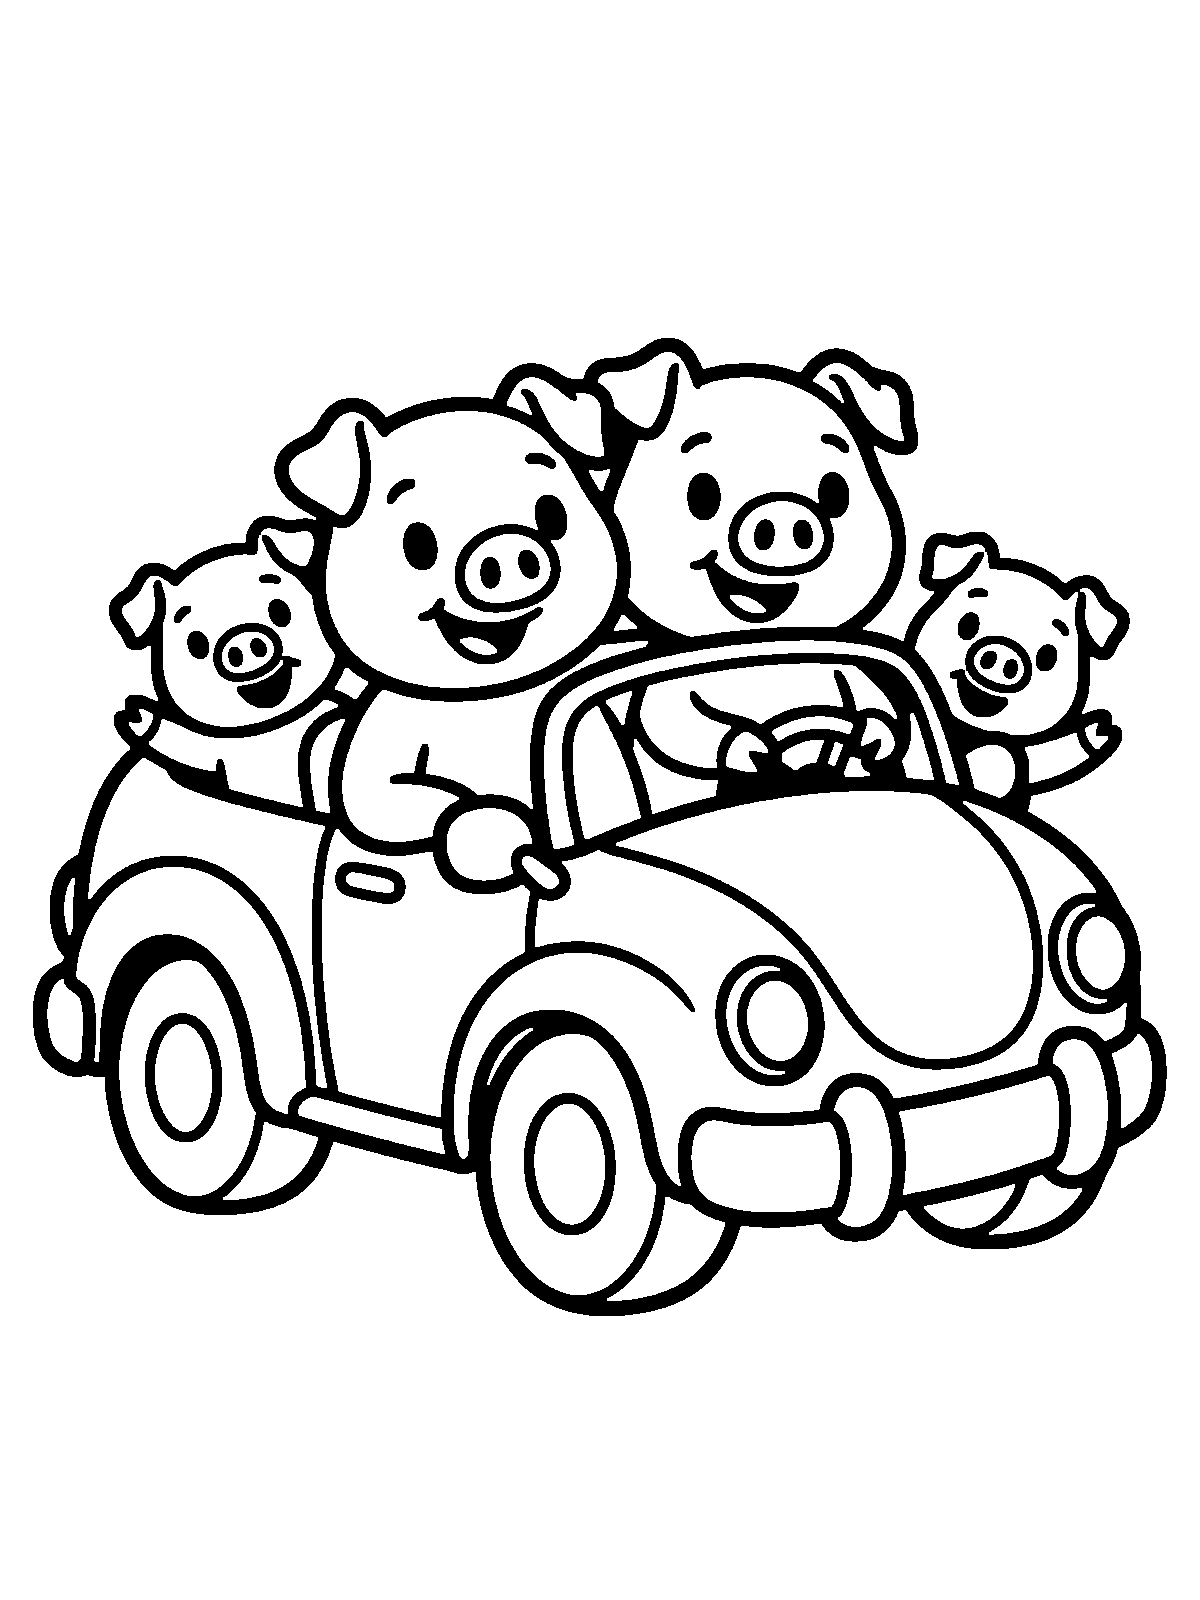
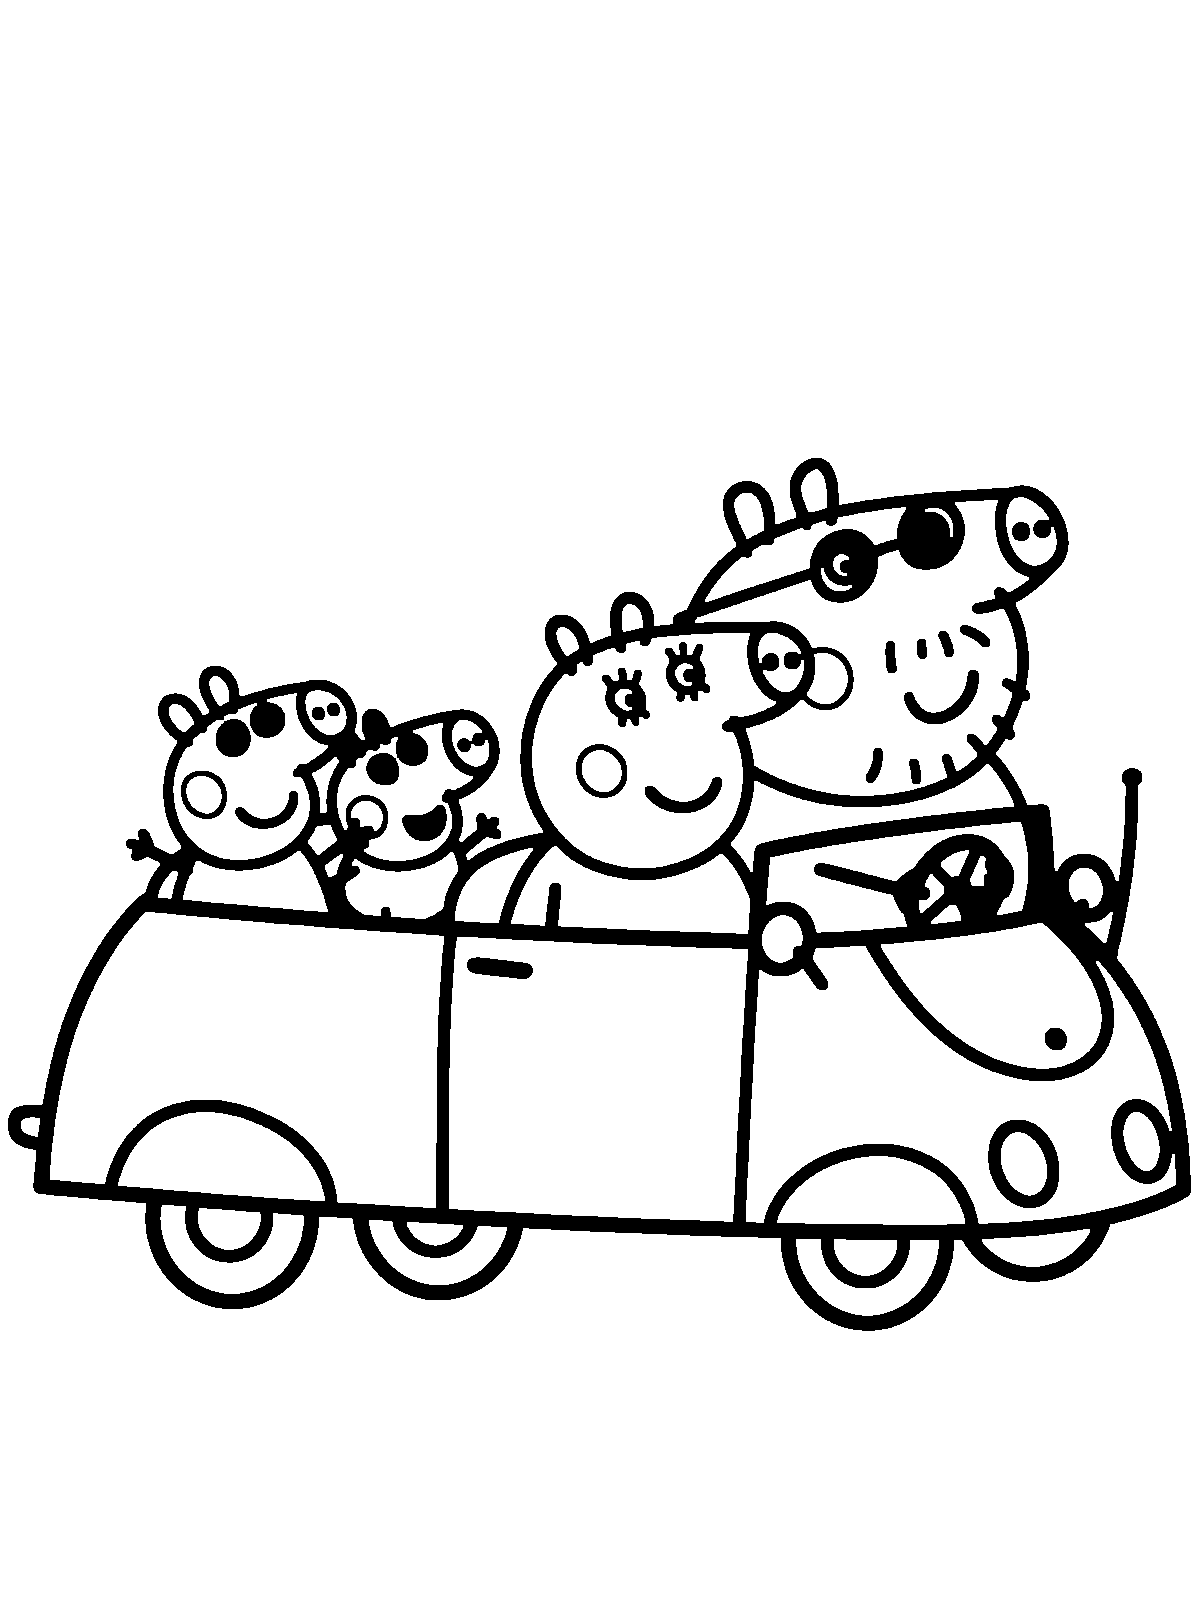
feat: regenerate all 10 Peppa coloring pages from downloaded character references with IP-free prompts (v1.1.2)

Changed region(s): [[0.0, 0.1875, 1.0, 0.8438]]

diff --git a/scripts/generate_vertex_packs.py b/scripts/generate_vertex_packs.py
@@ -107,27 +107,27 @@ PAGES: list[PackPage] = [
     PackPage("bluey_10", "bluey", 10, "妈妈奇莉海滩堆沙堡", "standard", ("chilli.png", "bluey.png", "bingo.png"),
              "The mum dog and two little puppies shown in the three reference images building a big sandcastle with a bucket and shovel on a sunny beach with gentle ocean waves."),
 
-    # ── 小猪佩奇 (Peppa Pig) ──
-    PackPage("peppa_01", "peppa", 1, "佩奇穿红裙微笑", "easy", (),
-             "Cute simple 2D children's storybook drawing of a cheerful little pink piggy girl in a simple red dress smiling and waving hello on a green grassy hill with a smiling sun."),
-    PackPage("peppa_02", "peppa", 2, "乔治抱恐龙先生", "easy", (),
-             "Cute simple 2D children's storybook drawing of a small cheerful pink piggy toddler boy in a blue shirt happily hugging a cute green toy dinosaur, simple grass and clouds."),
-    PackPage("peppa_03", "peppa", 3, "佩奇开心跳泥坑", "easy", (),
-             "Cute simple 2D children's storybook drawing of a cheerful little pink piggy girl wearing yellow rain boots jumping joyfully in a big puddle with splashes and a rainbow above."),
-    PackPage("peppa_04", "peppa", 4, "佩奇骑滑板车", "easy", (),
-             "Cute simple 2D children's storybook drawing of a cheerful little pink piggy girl happily riding a little scooter along a park path with flowers and butterflies."),
-    PackPage("peppa_05", "peppa", 5, "佩奇的生日蛋糕", "easy", (),
-             "Cute simple 2D children's storybook drawing of a cheerful little pink piggy girl wearing a party hat standing happily next to a big birthday cake with candles and 2 balloons."),
-    PackPage("peppa_06", "peppa", 6, "佩奇一家开红汽车", "standard", (),
-             "Cute simple 2D children's storybook drawing of a happy pink piggy family of four riding together in a cute red convertible car along a winding country road with hills."),
-    PackPage("peppa_07", "peppa", 7, "佩奇花园茶话会", "standard", (),
-             "Cute simple 2D children's storybook drawing of a little pink piggy girl and a cute little white sheep friend having a cheerful garden tea party with a teapot, teacups, and cupcakes on a table."),
-    PackPage("peppa_08", "peppa", 8, "爷爷的菜园和小火车", "standard", (),
-             "Cute simple 2D children's storybook drawing of two happy little pink piggies riding a cute little toy train through a sunny vegetable garden with big pumpkins, carrots, and sunflowers."),
-    PackPage("peppa_09", "peppa", 9, "游乐场坐热气球", "standard", (),
-             "Cute simple 2D children's storybook drawing of two happy little pink piggies waving happily from the basket of a big striped hot-air balloon floating among fluffy clouds and birds."),
-    PackPage("peppa_10", "peppa", 10, "佩奇一家海边度假", "standard", (),
-             "Cute simple 2D children's storybook drawing of two happy little pink piggies building a sandcastle under a big beach umbrella on a sunny beach with a beach ball and gentle waves."),
+    # ── 小猪佩奇 (reference-driven; zero IP names in prompts) ──
+    PackPage("peppa_01", "peppa", 1, "佩奇穿红裙微笑", "easy", ("peppa.png",),
+             "The cheerful cartoon pink pig character in a red dress shown in the reference image smiling and waving hello with one big smiling sun in the top corner. Plain white background."),
+    PackPage("peppa_02", "peppa", 2, "乔治抱恐龙先生", "easy", ("george.png",),
+             "The small cartoon pink pig character in a blue shirt shown in the reference image happily hugging a cute simple green toy dinosaur. Plain white background."),
+    PackPage("peppa_03", "peppa", 3, "佩奇开心跳泥坑", "easy", ("peppa.png",),
+             "The cartoon pink pig character in a red dress shown in the reference image wearing simple rain boots and jumping joyfully in one big oval puddle with a simple 3-band rainbow arch above. Plain white background."),
+    PackPage("peppa_04", "peppa", 4, "佩奇骑滑板车", "easy", ("peppa.png",),
+             "The cartoon pink pig character in a red dress shown in the reference image happily riding a simple chunky scooter with 2 big round wheels. Plain white background."),
+    PackPage("peppa_05", "peppa", 5, "佩奇的生日蛋糕", "easy", ("peppa.png",),
+             "The cartoon pink pig character in a red dress shown in the reference image wearing a pointy party hat next to one big birthday cake with 3 thick candles and 1 balloon. Plain white background."),
+    PackPage("peppa_06", "peppa", 6, "佩奇一家开红汽车", "standard", ("peppa.png", "george.png", "mummy_pig.png", "daddy_pig.png"),
+             "The four cartoon pink pig family characters shown in the four reference images riding happily together inside one simple chunky convertible car with big round wheels. Plain white background."),
+    PackPage("peppa_07", "peppa", 7, "佩奇花园茶话会", "standard", ("peppa.png", "suzy_sheep.png"),
+             "The cartoon pink pig character and the cartoon white sheep character shown in the two reference images sitting happily at a simple round table with one teapot and two teacups. Plain white background."),
+    PackPage("peppa_08", "peppa", 8, "佩奇和乔治坐小火车", "standard", ("peppa.png", "george.png"),
+             "The two cartoon pink pig characters shown in the two reference images waving happily from a simple chunky toy steam train engine with big round wheels and one puff of cloud. Plain white background."),
+    PackPage("peppa_09", "peppa", 9, "佩奇和乔治坐热气球", "standard", ("peppa.png", "george.png"),
+             "The two cartoon pink pig characters shown in the two reference images waving happily from the basket of one big striped hot-air balloon floating beside 2 fluffy clouds. Plain white background."),
+    PackPage("peppa_10", "peppa", 10, "佩奇和乔治海边堆沙堡", "standard", ("peppa.png", "george.png"),
+             "The two cartoon pink pig characters shown in the two reference images smiling beside one big simple sandcastle and a striped beach ball. Plain white background."),
 
     # ── 面包超人 (Anpanman) ──
     PackPage("anpanman_01", "anpanman", 1, "面包超人飞行敬礼", "easy", ("anpanman.png",),
